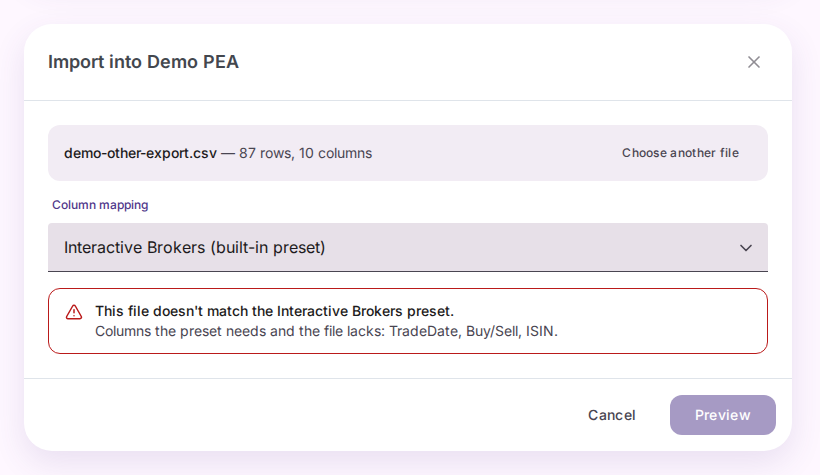
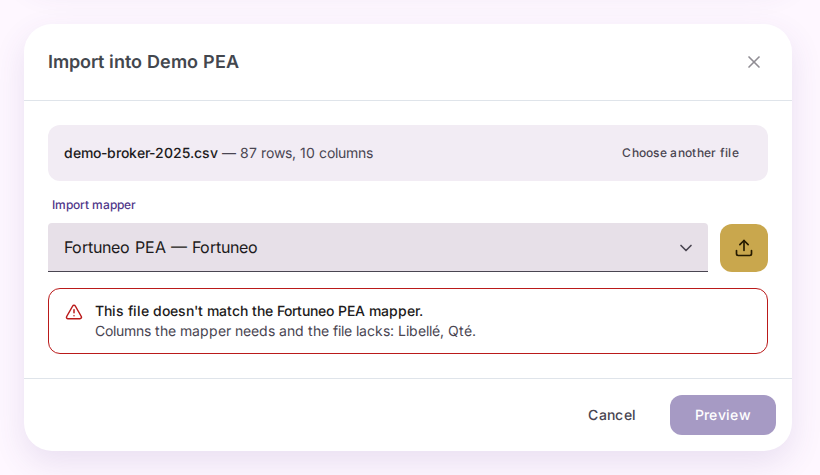
503: generic import mappers, no presets

diff --git a/503/503.md b/503/503.md
@@ -1,5 +1,5 @@
-**Moves:** nothing. **Added:** an Import button on the account's header, beside Open balance (hidden in read-only as-of, like the other record actions); an import dialog: pick a file, see how it was read, choose a column mapping, map the columns and operation labels, optionally save, go to the preview.
-**Built-in presets:** listed with the saved mappings, shown read-only with Save a copy; a file that doesn't match is refused with the columns it lacks.
-**Removed:** nothing. **Stays:** the other header actions, in the same order.
-**Long form:** the dialog scrolls between its fixed header and footer; the mock shows it whole.
-**Open point:** the term "built-in preset" is new; the French arrives with the build.
+**Moves:** nothing from the validated mock's entry: the Import button stays on the account's header, beside Open balance.
+**Added:** an import mapper list with custom mappers only, each with its provider; a hover-hinted button adding a mapper from a file, refused with why when it isn't one; a Provider field when saving; the mapper used last for the CSV's folder preselected, the form collapsed with Edit the mapper.
+**Removed:** the built-in preset's state and read-only form, which return with #548 and #549.
+**Stays:** picking a file, how it was read, the columns and operations, a file that doesn't match refused with the columns it lacks.
+**Open point:** none.
